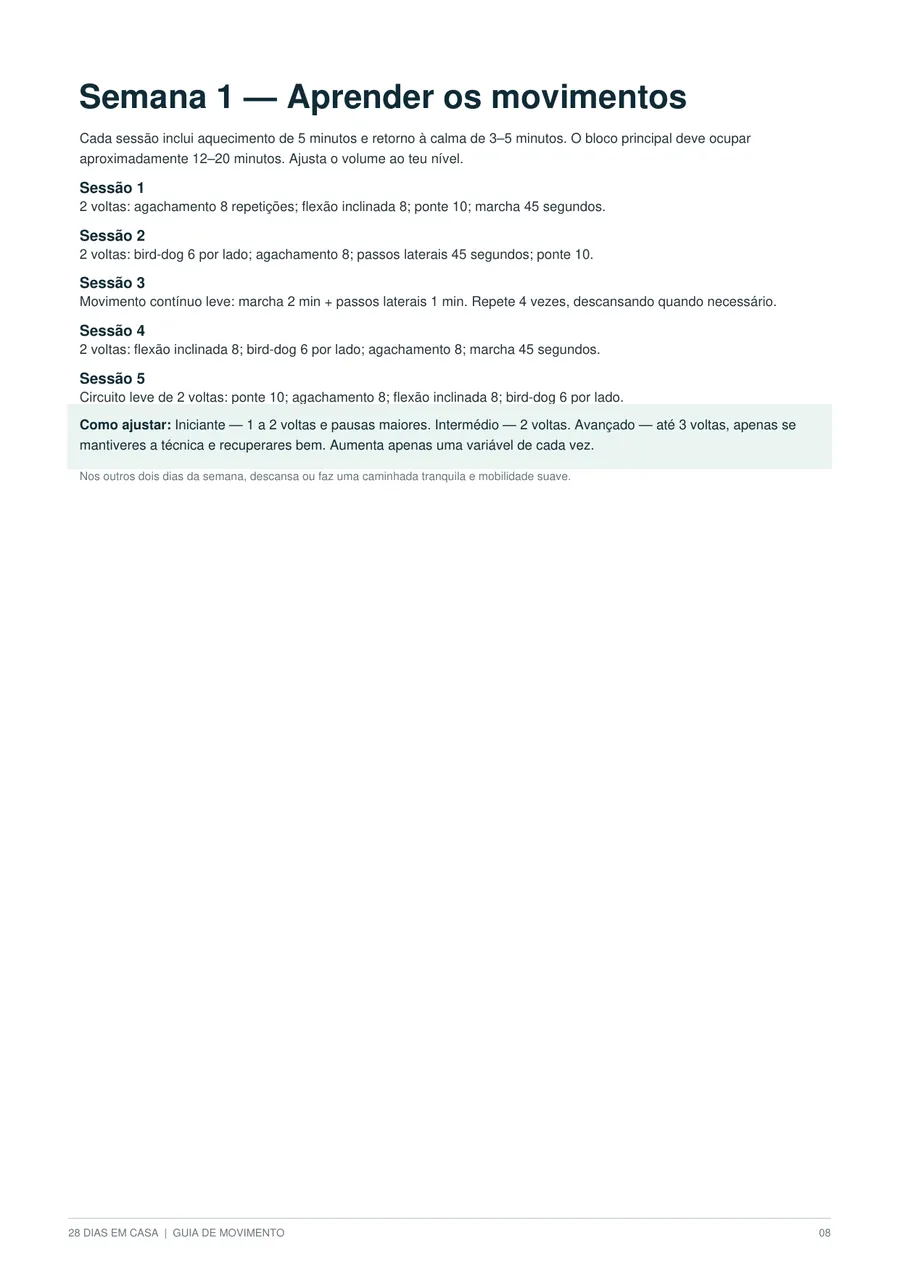
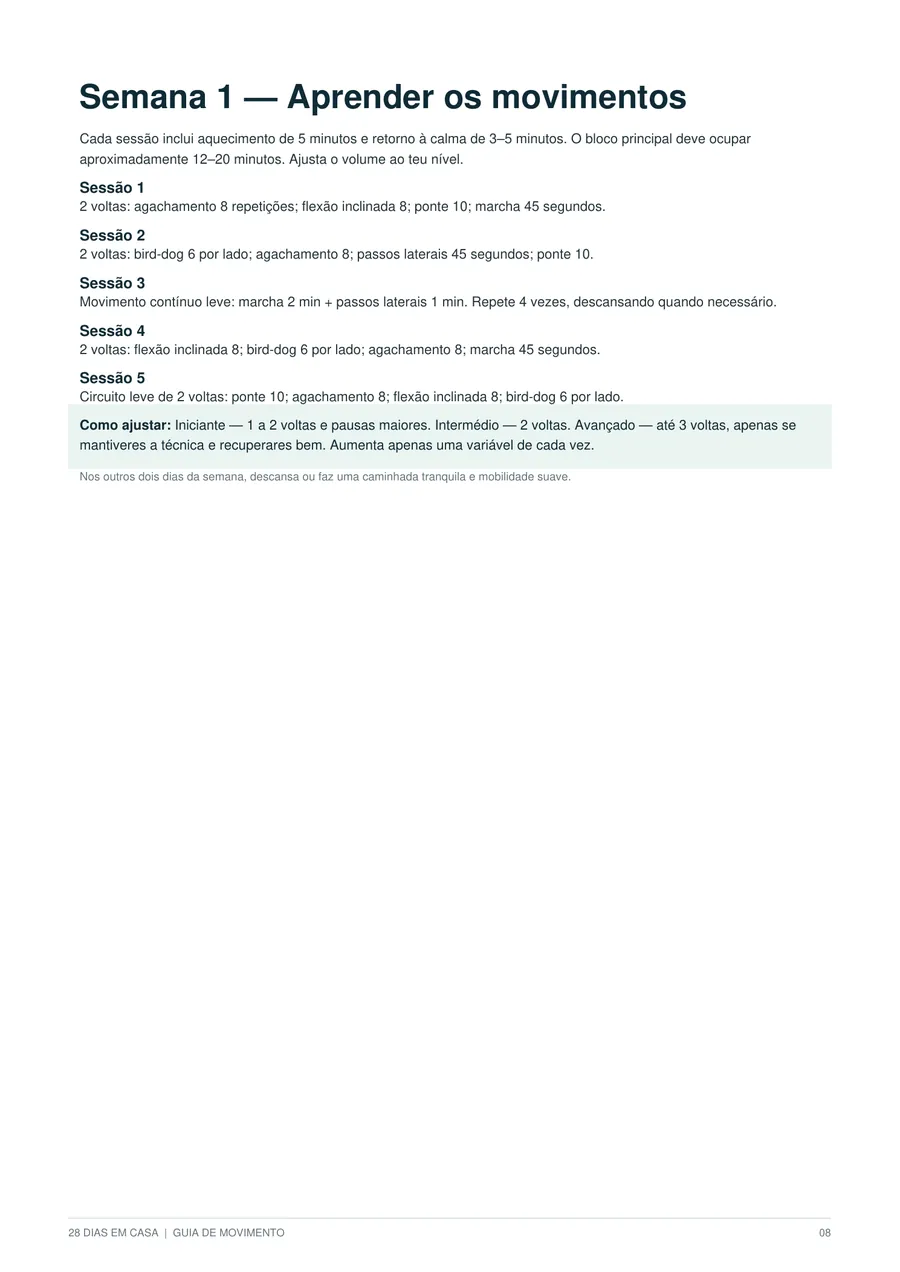
v5: autoConfig off, lightbox amostras, robots Meta, privacidade checkout
Revogação sem SubscribedButtonClick; imagens p.8/13 ampliáveis; noindex mantido.

diff --git a/privacidade.html b/privacidade.html
@@ -30,7 +30,7 @@
         <tr><td>Dados de faturação e registos da transação</td><td>Cumprir obrigações fiscais e contabilísticas</td><td>Obrigação jurídica (al. c))</td></tr>
         <tr><td>Dados de pagamento (cartão, Apple Pay)</td><td>Pagamento</td><td>Tratados pela Kiwify e pelos seus prestadores de pagamento. O vendedor não recebe os dados completos do cartão</td></tr>
         <tr><td>Mensagens enviadas ao apoio</td><td>Responder a dúvidas e reclamações</td><td>Execução do contrato ou interesse legítimo em responder (al. b) ou f))</td></tr>
-        <tr><td>Eventos de navegação recolhidos pelo <strong>Pixel da Meta</strong> (página visitada e início de checkout ao clicar no botão de compra, identificadores do navegador e do dispositivo, endereço IP, cookies como _fbp), só após consentimento</td><td>Medir a eficácia dos anúncios no Facebook e Instagram, otimizar campanhas e criar públicos para anúncios</td><td>Consentimento (al. a)), recolhido no banner de cookies antes de o Pixel ser ativado (art. 5.º da Lei n.º 41/2004)</td></tr>
+        <tr><td>Eventos de navegação recolhidos pelo <strong>Pixel da Meta</strong> neste site (página visitada e início de checkout ao clicar no botão de compra, identificadores do navegador e do dispositivo, endereço IP, cookies como _fbp), só após consentimento nesta página</td><td>Medir a eficácia dos anúncios no Facebook e Instagram, otimizar campanhas e criar públicos para anúncios</td><td>Consentimento (al. a)), recolhido no banner de cookies deste site antes de o Pixel ser ativado nesta página (art. 5.º da Lei n.º 41/2004). No checkout da Kiwify o pixel pode disparar à parte — ver cláusula 3</td></tr>
         <tr><td>Parâmetros UTM do endereço da página (utm_source, utm_medium, utm_campaign, utm_content, utm_term) e, se existirem, identificadores de clique como fbclid</td><td>Saber de que anúncio ou campanha veio cada visita ou compra</td><td>Interesse legítimo em medir as campanhas de forma agregada (al. f)). Se forem guardados em cookies ou combinados com o Pixel, consentimento (al. a))</td></tr>
       </table></div>
       <p>Não pedimos nem tratamos dados de saúde. O guia inclui um registo de treino para preencheres por tua conta, em papel ou no teu dispositivo; esse registo não nos é enviado. Pedimos-te que não envies informações de saúde por e-mail.</p>
@@ -40,10 +40,11 @@
       <p>Usamos cookies e tecnologias semelhantes de dois tipos:</p>
       <ul>
         <li><strong>Estritamente necessários</strong> (por exemplo, para o carrinho, o checkout e o início de sessão na área de membros). Não precisam de consentimento.</li>
-        <li><strong>Publicidade e medição</strong>, como o Pixel da Meta. Só são ativados se aceitares no banner de cookies.</li>
+        <li><strong>Publicidade e medição</strong>, como o Pixel da Meta neste site. Nesta página de vendas, só são ativados se aceitares no banner de cookies.</li>
       </ul>
-      <p>Podes aceitar ou recusar; recusar é tão fácil como aceitar. Podes alterar a tua escolha a qualquer momento em <a href="#" data-cookie-settings>Definições de cookies</a>. Retirar o consentimento não afeta o tratamento feito antes.</p>
+      <p>Podes aceitar ou recusar; recusar é tão fácil como aceitar. Podes alterar a tua escolha a qualquer momento em <a href="#" data-cookie-settings>Definições de cookies</a>. Retirar o consentimento não afeta o tratamento feito antes. A escolha feita neste site vale para este site.</p>
       <p>Cookie de medição usado nesta página: Pixel da Meta (fbevents.js / facebook.com/tr), ativado apenas após consentimento, com a escolha guardada no armazenamento local do navegador.</p>
+      <p>No checkout da Kiwify (pay.kiwify.com), o pixel da Meta 2111475296169479 (eventos PageView, InitiateCheckout e Purchase) e o pixel da própria Kiwify 475913216709140 podem ser ativados independentemente da escolha feita neste site. Esse tratamento ocorre no checkout. Para mais informação, vê a <a href="https://kiwify.com.br/politica-de-privacidade/" rel="noopener noreferrer" target="_blank">Política de Privacidade da Kiwify</a>.</p>
 
       <h2>4. Com quem partilhamos os dados</h2>
       <div class="table-wrap"><table>

diff --git a/cookies.js b/cookies.js
@@ -50,10 +50,48 @@
     });
   }
 
+  function isTrackCommand(cmd) {
+    return cmd === "track" || cmd === "trackCustom" || cmd === "trackSingle" || cmd === "trackSingleCustom";
+  }
+
+  function guardFbq() {
+    if (typeof window.fbq !== "function") return;
+    if (window.fbq.__consentGuarded) return;
+    var orig = window.fbq;
+    function guarded() {
+      var cmd = arguments[0];
+      if (!trackingAllowed && isTrackCommand(cmd)) {
+        return;
+      }
+      if (!trackingAllowed && cmd === "consent" && arguments[1] === "grant") {
+        return;
+      }
+      return orig.apply(this, arguments);
+    }
+    var k;
+    for (k in orig) {
+      if (Object.prototype.hasOwnProperty.call(orig, k)) {
+        guarded[k] = orig[k];
+      }
+    }
+    guarded.callMethod = function () {
+      return guarded.apply(null, arguments);
+    };
+    guarded.queue = orig.queue || [];
+    guarded.push = guarded;
+    guarded.loaded = orig.loaded;
+    guarded.version = orig.version;
+    guarded.__consentGuarded = true;
+    window.fbq = guarded;
+    if (window._fbq) window._fbq = guarded;
+  }
+
   function revokeTracking() {
     trackingAllowed = false;
     try {
       if (typeof fbq === "function") {
+        // ensure guard is on so later auto track is dropped
+        guardFbq();
         fbq("consent", "revoke");
       }
     } catch (e) {}
@@ -64,6 +102,7 @@
     trackingAllowed = true;
     if (pixelLoaded) {
       try {
+        guardFbq();
         if (typeof fbq === "function") {
           fbq("consent", "grant");
           fbq("track", "PageView");
@@ -85,9 +124,14 @@
       t = b.createElement(e);
       t.async = !0;
       t.src = v;
+      t.onload = function () {
+        // Guard AFTER Meta has replaced/enhanced the stub
+        guardFbq();
+      };
       s = b.getElementsByTagName(e)[0];
       s.parentNode.insertBefore(t, s);
     })(window, document, "script", "https://connect.facebook.net/en_US/fbevents.js");
+    fbq("set", "autoConfig", false, PIXEL_ID);
     fbq("init", PIXEL_ID);
     fbq("track", "PageView");
   }
@@ -114,25 +158,44 @@
       loadPixel();
     });
   }
+
+  function onRefuseCapture(ev) {
+    trackingAllowed = false;
+    setConsent("refused");
+    revokeTracking();
+    hideBanner();
+    if (ev && ev.stopPropagation) ev.stopPropagation();
+  }
   if (btnRefuse) {
-    btnRefuse.addEventListener("click", function () {
-      setConsent("refused");
-      hideBanner();
-      revokeTracking();
-    });
+    btnRefuse.addEventListener("click", onRefuseCapture, true);
+  }
+  if (banner) {
+    banner.addEventListener(
+      "click",
+      function (ev) {
+        var t = ev.target;
+        if (t && (t.id === "cookie-refuse" || (t.closest && t.closest("#cookie-refuse")))) {
+          onRefuseCapture(ev);
+        }
+      },
+      true
+    );
   }
   settingsLinks.forEach(function (el) {
-    el.addEventListener("click", function (ev) {
-      ev.preventDefault();
-      showBanner();
-    });
+    el.addEventListener(
+      "click",
+      function (ev) {
+        ev.preventDefault();
+        showBanner();
+      },
+      true
+    );
   });
 
-  // InitiateCheckout on data-checkout clicks (only with consent)
   document.querySelectorAll("a[data-checkout]").forEach(function (link) {
     link.addEventListener("click", function (ev) {
       if (!window.hasTrackingConsent || !window.hasTrackingConsent()) {
-        return; // navigate normally, no pixel
+        return;
       }
       if (typeof fbq !== "function") {
         return;
@@ -148,7 +211,6 @@
       try {
         fbq("track", "InitiateCheckout");
       } catch (e) {}
-      // Prefer sendBeacon-style delay so /tr can leave before navigation
       setTimeout(go, 500);
     });
   });

diff --git a/index.html b/index.html
@@ -95,12 +95,16 @@
         <p>Duas páginas reais do guia:</p>
         <div class="sample-grid">
           <figure class="sample-card">
-            <img src="img/guia-p08.webp" width="900" height="1272" loading="lazy" alt="Página 8 do guia 28 dias em casa: Semana 1, Aprender os movimentos, com as 5 sessões, voltas e repetições">
-            <figcaption><strong>Página 8, Semana 1, Aprender os movimentos:</strong> as 5 sessões da semana, com voltas e repetições, e como ajustar ao teu nível.</figcaption>
+            <button type="button" class="sample-zoom" data-lightbox-src="img/guia-p08-lg.webp" data-lightbox-alt="Página 8 do guia 28 dias em casa: Semana 1, Aprender os movimentos, ampliada" aria-label="Ampliar página 8 do guia">
+              <img src="img/guia-p08.webp" width="900" height="1272" loading="eager" alt="Página 8 do guia 28 dias em casa: Semana 1, Aprender os movimentos, com as 5 sessões, voltas e repetições">
+            </button>
+            <figcaption><strong>Página 8, Semana 1, Aprender os movimentos:</strong> as 5 sessões da semana, com voltas e repetições, e como ajustar ao teu nível. <span class="zoom-hint">Toca para ampliar</span></figcaption>
           </figure>
           <figure class="sample-card">
-            <img src="img/guia-p13.webp" width="900" height="1272" loading="lazy" alt="Página 13 do guia 28 dias em casa: Calendário das 4 semanas com espaço O meu compromisso">
-            <figcaption><strong>Página 13, Calendário das 4 semanas:</strong> para assinalares cada sessão concluída, com o espaço "O meu compromisso".</figcaption>
+            <button type="button" class="sample-zoom" data-lightbox-src="img/guia-p13-lg.webp" data-lightbox-alt="Página 13 do guia 28 dias em casa: Calendário das 4 semanas, ampliada" aria-label="Ampliar página 13 do guia">
+              <img src="img/guia-p13.webp" width="900" height="1272" loading="eager" alt="Página 13 do guia 28 dias em casa: Calendário das 4 semanas com espaço O meu compromisso">
+            </button>
+            <figcaption><strong>Página 13, Calendário das 4 semanas:</strong> para assinalares cada sessão concluída, com o espaço "O meu compromisso". <span class="zoom-hint">Toca para ampliar</span></figcaption>
           </figure>
         </div>
       </div>
@@ -228,6 +232,14 @@
       <p class="seller">© 2026 fazendoemcasa.com · Marcos Paulo de Souza Esteves. Todos os direitos reservados.</p>
     </div>
   </footer>
+  
+  <div id="image-lightbox" class="lightbox" hidden aria-hidden="true" role="dialog" aria-label="Imagem ampliada">
+    <button type="button" class="lightbox-close" aria-label="Fechar">Fechar</button>
+    <div class="lightbox-stage">
+      <img class="lightbox-img" alt="">
+    </div>
+  </div>
+
   <div id="cookie-banner" class="cookie-banner" role="dialog" aria-label="Definições de cookies" aria-hidden="false">
     <div class="cookie-inner">
       <p class="cookie-text">Usamos cookies de medição (Pixel da Meta) para perceber a eficácia dos anúncios. Podes aceitar ou recusar. Detalhes na <a href="privacidade.html">Política de Privacidade</a>.</p>
@@ -238,6 +250,7 @@
     </div>
   </div>
   <script src="cookies.js" defer></script>
+  <script src="lightbox.js" defer></script>
   <script src="utm.js" defer></script>
 </body>
 </html>

diff --git a/lightbox.js b/lightbox.js
@@ -1,0 +1,43 @@
+(function () {
+  var overlay = document.getElementById("image-lightbox");
+  if (!overlay) return;
+  var img = overlay.querySelector(".lightbox-img");
+  var closeBtn = overlay.querySelector(".lightbox-close");
+  var openers = document.querySelectorAll("[data-lightbox-src]");
+
+  function openLightbox(src, alt) {
+    img.src = src;
+    img.alt = alt || "";
+    overlay.hidden = false;
+    overlay.setAttribute("aria-hidden", "false");
+    document.body.style.overflow = "hidden";
+  }
+  function closeLightbox() {
+    overlay.hidden = true;
+    overlay.setAttribute("aria-hidden", "true");
+    img.removeAttribute("src");
+    document.body.style.overflow = "";
+  }
+
+  openers.forEach(function (el) {
+    el.addEventListener("click", function (ev) {
+      ev.preventDefault();
+      openLightbox(el.getAttribute("data-lightbox-src"), el.getAttribute("data-lightbox-alt") || el.getAttribute("alt") || "");
+    });
+    el.addEventListener("keydown", function (ev) {
+      if (ev.key === "Enter" || ev.key === " ") {
+        ev.preventDefault();
+        openLightbox(el.getAttribute("data-lightbox-src"), el.getAttribute("data-lightbox-alt") || "");
+      }
+    });
+  });
+  if (closeBtn) closeBtn.addEventListener("click", function (ev) { ev.stopPropagation(); closeLightbox(); });
+  overlay.addEventListener("click", function (ev) {
+    if (ev.target === overlay || ev.target.classList.contains("lightbox-stage")) {
+      closeLightbox();
+    }
+  });
+  document.addEventListener("keydown", function (ev) {
+    if (ev.key === "Escape" && !overlay.hidden) closeLightbox();
+  });
+})();

diff --git a/style.css b/style.css
@@ -417,3 +417,73 @@ body {
   display: block;
   margin-bottom: 0.25rem;
 }
+
+.sample-zoom {
+  display: block;
+  width: 100%;
+  padding: 0;
+  border: 0;
+  background: transparent;
+  cursor: zoom-in;
+}
+
+.sample-zoom img {
+  width: 100%;
+  height: auto;
+  display: block;
+}
+
+.zoom-hint {
+  display: block;
+  margin-top: 0.35rem;
+  font-size: 0.85rem;
+  color: var(--accent);
+  font-weight: 600;
+}
+
+.lightbox {
+  position: fixed;
+  inset: 0;
+  z-index: 10000;
+  background: rgba(0, 0, 0, 0.92);
+  display: flex;
+  flex-direction: column;
+}
+
+.lightbox[hidden] {
+  display: none !important;
+}
+
+.lightbox-close {
+  align-self: flex-end;
+  margin: 0.75rem 0.75rem 0;
+  appearance: none;
+  border: 1px solid #aaa;
+  background: transparent;
+  color: #fff;
+  border-radius: 999px;
+  padding: 0.45rem 0.9rem;
+  font-weight: 700;
+  cursor: pointer;
+  z-index: 2;
+}
+
+.lightbox-stage {
+  flex: 1;
+  overflow: auto;
+  -webkit-overflow-scrolling: touch;
+  touch-action: pan-x pan-y pinch-zoom;
+  display: flex;
+  align-items: flex-start;
+  justify-content: center;
+  padding: 0.75rem;
+}
+
+.lightbox-img {
+  max-width: none;
+  width: min(100%, 1600px);
+  height: auto;
+  display: block;
+  margin: 0 auto;
+  background: #111;
+}

diff --git a/termos.html b/termos.html
@@ -66,7 +66,7 @@
       <p>Na compra recebes uma licença pessoal, não exclusiva e intransmissível para usar os conteúdos.</p>
       <p>Podes descarregar, guardar nos teus dispositivos e imprimir para uso pessoal.</p>
       <p>Não podes revender, partilhar, distribuir, publicar, enviar a terceiros, disponibilizar em grupos ou na Internet, nem usar os conteúdos, no todo ou em parte, para fins comerciais (por exemplo, em aulas, em consultas ou noutros produtos), sem autorização escrita do vendedor.</p>
-      <p>Os textos, as fotografias e o grafismo estão protegidos por direitos de autor.</p>
+      <p>Os textos, as fotografias e o grafismo estão protegidos por direitos de autor. As imagens do guia são do titular ou usadas com direito de uso.</p>
 
       <h2>9. Saúde e segurança</h2>
       <p>Os conteúdos têm carácter informativo e educativo geral. Não constituem prescrição de exercício individual, aconselhamento médico, nutricional ou de outro profissional de saúde, nem os substituem.</p>
